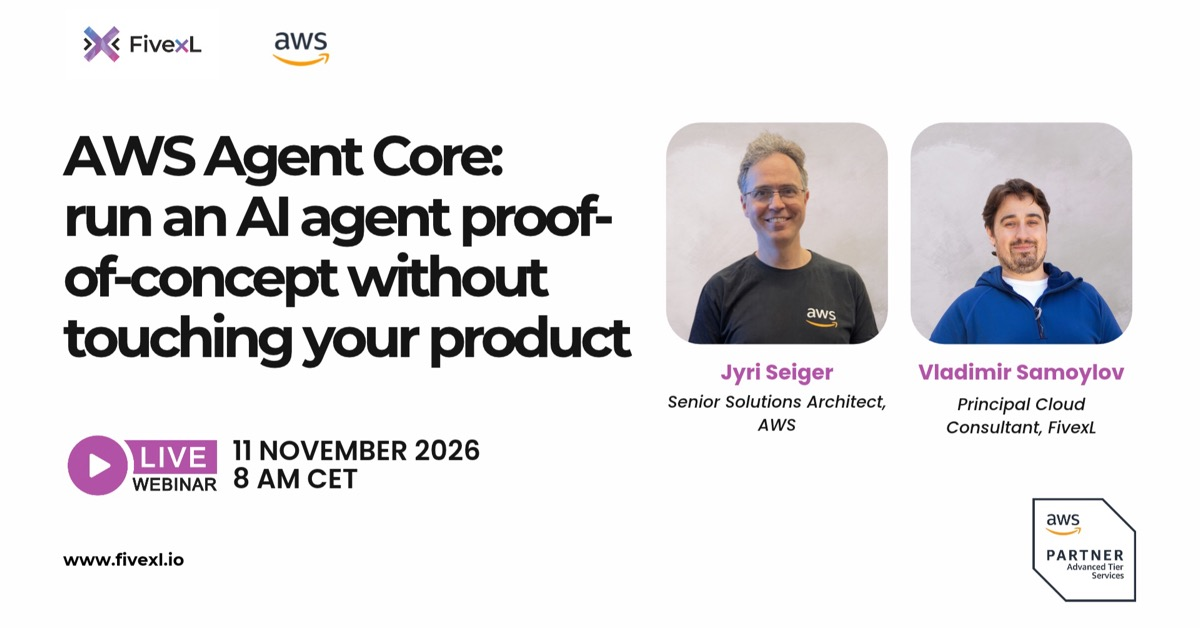
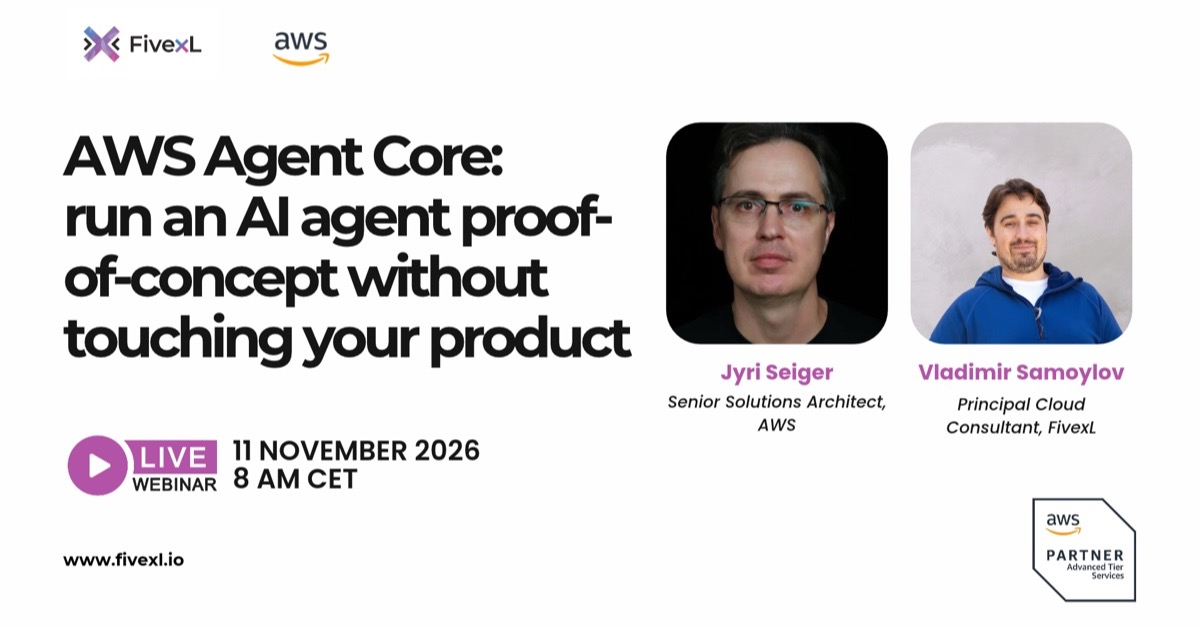
Redesign webinar thank-you page and update speaker and share images

Changed region(s): [[0.555, 0.1815, 0.74, 0.5748]]

diff --git a/themes/example/layouts/webinar-registration/thank-you.html b/themes/example/layouts/webinar-registration/thank-you.html
@@ -1,16 +1,43 @@
+{{ define "headStyles" }}
+{{/* Self-hosted Montserrat stops at 700; the title needs 800. */}}
+<link rel="preconnect" href="https://fonts.googleapis.com">
+<link rel="preconnect" href="https://fonts.gstatic.com" crossorigin>
+<link rel="stylesheet" href="https://fonts.googleapis.com/css2?family=Montserrat:wght@800&display=swap">
+{{ end }}
+
 {{ define "main" }}
 {{ $event := .Parent }}
 
 <div class="wr-Page">
-<section class="wr-Hero wr-Hero_ThankYou">
-  <div class="wr-Hero_Header">
-    <h1 class="wr-Title">{{ .Title }}{{ with $event }}<span class="wr-Title_Sub wr-Title_Event">{{ .Title }}</span>{{ end }}</h1>
-    <div class="wr-Intro">{{ .Content }}</div>
-    {{ with $event }}
-    <p class="wr-When">
-      {{ time.Format "Monday 2 January 2006" .Params.event_date }}<br>
-      {{ delimit (slice | append .Params.time_primary) " · " }}{{ with .Params.time_secondary }} · {{ . }}{{ end }}
-    </p>
+<section class="wr-ThankYou">
+  <div class="wr-ThankYou_Icon" aria-hidden="true">
+    <svg width="30" height="30" viewBox="0 0 24 24"><path d="M5 12.5l4.5 4.5L19 7.5" fill="none" stroke="#fff" stroke-width="2.6" stroke-linecap="round" stroke-linejoin="round"/></svg>
+  </div>
+  <p class="wr-ThankYou_Pill">You’re on the list</p>
+
+  <h1 class="wr-ThankYou_Title">{{ .Title }}</h1>
+  {{ with $event }}<p class="wr-ThankYou_Event">{{ .Title }}</p>{{ end }}
+
+  <div class="wr-ThankYou_Text">{{ .Content }}</div>
+
+  {{ with $event }}
+  <div class="wr-ThankYou_Card">
+    <dl class="wr-ThankYou_Meta">
+      <div class="wr-Meta_Cell">
+        <dt class="wr-Meta_Label">Date</dt>
+        <dd class="wr-Meta_Value">
+          <span class="wr-Meta_Primary">{{ time.Format "2 January" .Params.event_date }}</span>
+          <span class="wr-Meta_Secondary">{{ time.Format "Monday, 2006" .Params.event_date }}</span>
+        </dd>
+      </div>
+      <div class="wr-Meta_Cell">
+        <dt class="wr-Meta_Label">Time</dt>
+        <dd class="wr-Meta_Value">
+          <span class="wr-Meta_Primary">{{ delimit (slice | append .Params.time_primary) " / " }}</span>
+          {{ with .Params.time_secondary }}<span class="wr-Meta_Secondary">{{ . }}</span>{{ end }}
+        </dd>
+      </div>
+    </dl>
 
     {{ $start := time.AsTime .Params.event_start_utc }}
     {{ $end := time.AsTime .Params.event_end_utc }}
@@ -19,11 +46,16 @@
         ($start.UTC.Format "20060102T150405Z")
         ($end.UTC.Format "20060102T150405Z")
         (urlquery (printf "FivexL webinar. Details: https://fivexl.io%s" .RelPermalink)) }}
-    <a class="ButtonCTA wr-ThankYou_Button" href="{{ $calendar }}" target="_blank" rel="noopener">Add to Google Calendar</a>
-    {{ end }}
-
-    <p class="wr-ThankYou_More">While you wait, read our latest posts on the <a href="/blog/">FivexL blog</a> or follow us on <a href="https://www.linkedin.com/company/5xl" target="_blank" rel="noopener">LinkedIn</a>.</p>
+    <div class="wr-ThankYou_Actions">
+      <a class="wr-ThankYou_Button" href="{{ $calendar }}" target="_blank" rel="noopener">
+        <svg width="22" height="22" viewBox="0 0 24 24" aria-hidden="true"><rect x="3.5" y="5" width="17" height="15.5" rx="2" fill="none" stroke="currentColor" stroke-width="1.8"/><path d="M3.5 10h17M8 3v4M16 3v4" fill="none" stroke="currentColor" stroke-width="1.8" stroke-linecap="round"/><path d="M7.5 13.5h2M11 13.5h2M14.5 13.5h2M7.5 16.5h2M11 16.5h2" stroke="currentColor" stroke-width="1.6" stroke-linecap="round"/></svg>
+        Add to Google Calendar
+      </a>
+    </div>
   </div>
+  {{ end }}
+
+  <p class="wr-ThankYou_More">While you wait, read our latest posts on the <a href="/blog/">FivexL blog</a> or follow us on <a href="https://www.linkedin.com/company/5xl" target="_blank" rel="noopener">LinkedIn</a>.</p>
 </section>
 </div>
 

diff --git a/themes/example/assets/sass/webinar_registration.scss b/themes/example/assets/sass/webinar_registration.scss
@@ -416,28 +416,6 @@
     cursor: pointer;
   }
 
-  // Thank-you page header
-  &-Hero_Header {
-    max-width: 1000px;
-    margin: 0 auto;
-    text-align: center;
-
-    .wr-Title { margin-bottom: 1.5rem; }
-    .wr-Intro { display: block; }
-  }
-
-  &-Title_Sub {
-    display: block;
-    margin-top: 0.5rem;
-  }
-
-  &-When {
-    font-size: clamp(1rem, 1.6vw, 1.25rem);
-    font-weight: 500;
-    line-height: 1.6;
-    margin: 2.5rem 0 0;
-  }
-
   // Content sections
   &-Section {
     max-width: calc(1200px + 4rem); // matches the hero's content width plus padding
@@ -697,22 +675,137 @@
   }
 
   // Thank-you page
-  &-Hero_ThankYou {
-    padding-block: 5rem;
+  // Thank-you page
+  &-ThankYou {
+    max-width: 800px;
+    margin: 0 auto;
+    padding: 40px 24px 72px;
+    display: flex;
+    flex-direction: column;
+    align-items: center;
+    text-align: center;
   }
 
-  &-Title_Event {
-    font-size: 0.6em;
+  &-ThankYou_Icon {
+    width: 64px;
+    height: 64px;
+    border-radius: 50%;
+    background: #18ADF0;
+    display: flex;
+    align-items: center;
+    justify-content: center;
+  }
+
+  &-ThankYou_Pill {
+    margin: 20px 0 0;
+    padding: 6px 14px;
+    border-radius: 999px;
+    background: #fff;
+    border: 1px solid #DDDDDD;
+    font-size: 13px;
+    font-weight: 600;
+    color: #333333;
+  }
+
+  &-ThankYou_Title {
+    max-width: 11em; // breaks after "Thank you"
+    margin: 40px 0 0;
+    font-size: clamp(40px, 7vw, 64px);
+    line-height: 1.05;
+    font-weight: 800;
+    letter-spacing: -0.02em;
+    text-wrap: balance;
+  }
+
+  &-ThankYou_Event {
+    max-width: 680px;
+    margin: 20px 0 0;
+    font-size: clamp(20px, 2.6vw, 28px);
     font-weight: 500;
+    line-height: 1.3;
+    color: #333333;
+  }
+
+  &-ThankYou_Text {
+    max-width: 560px;
+    margin-top: 36px;
+
+    p {
+      font-size: 17px;
+      line-height: 1.7;
+      color: #555555;
+      text-wrap: pretty;
+      margin: 0;
+    }
+  }
+
+  &-ThankYou_Card {
+    width: 100%;
+    max-width: 580px;
+    margin-top: 40px;
+    background: #fff;
+    border-radius: 16px;
+    box-shadow: 0 12px 32px rgba(0, 0, 0, 0.06);
+    overflow: hidden;
+    text-align: left;
+  }
+
+  &-ThankYou_Meta {
+    display: grid;
+    grid-template-columns: minmax(0, 1fr) minmax(0, 1fr);
+    gap: 1px;
+    background: #E4E4E4;
+    border-bottom: 1px solid #E4E4E4;
+    margin: 0;
+
+    @media (max-width: 599px) {
+      .wr-Meta_Cell { padding: 16px 18px; }
+      .wr-Meta_Primary { font-size: 19px; white-space: nowrap; }
+    }
+
+    @media (max-width: 359px) {
+      .wr-Meta_Cell { padding: 14px; }
+      .wr-Meta_Primary { font-size: 16px; }
+    }
+  }
+
+  &-ThankYou_Actions {
+    padding: 20px;
   }
 
   &-ThankYou_Button {
-    margin: 2rem auto;
+    display: flex;
+    align-items: center;
+    justify-content: center;
+    gap: 12px;
+    width: 100%;
+    padding: 14px 20px;
+    border-radius: 8px;
+    background: #18ADF0;
+    color: #fff;
+    font-size: 17px;
+    font-weight: 700;
+    text-decoration: none;
+    transition: background-color 0.15s;
+
+    &:hover,
+    &:focus-visible {
+      background: #0F96D4;
+      color: #fff;
+    }
   }
 
   &-ThankYou_More {
-    color: #444;
-    line-height: 1.5;
+    max-width: 640px;
+    margin: 36px 0 0;
+    font-size: 16px;
+    line-height: 1.6;
+    color: #555555;
+
+    a {
+      color: #13A3E6;
+      font-weight: 600;
+    }
   }
 
   // Sticky "Save my seat" bar, mobile only
